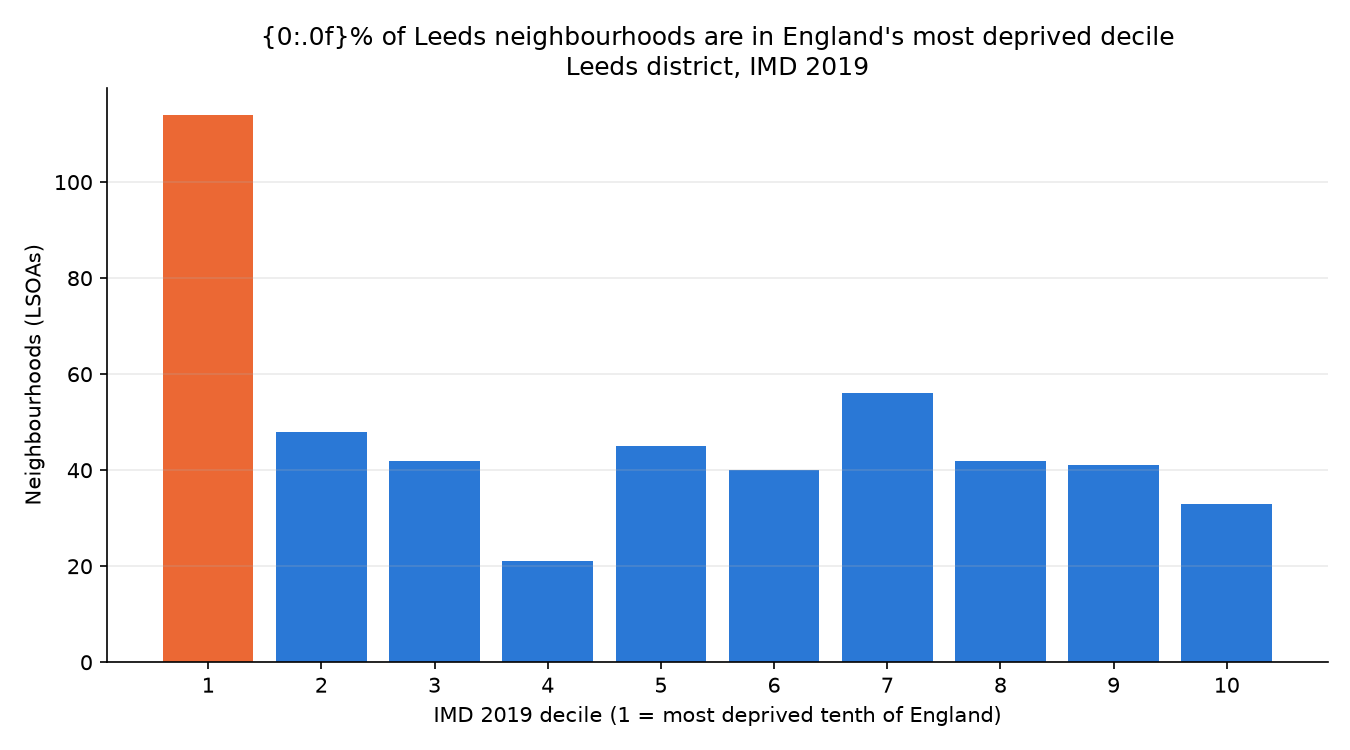
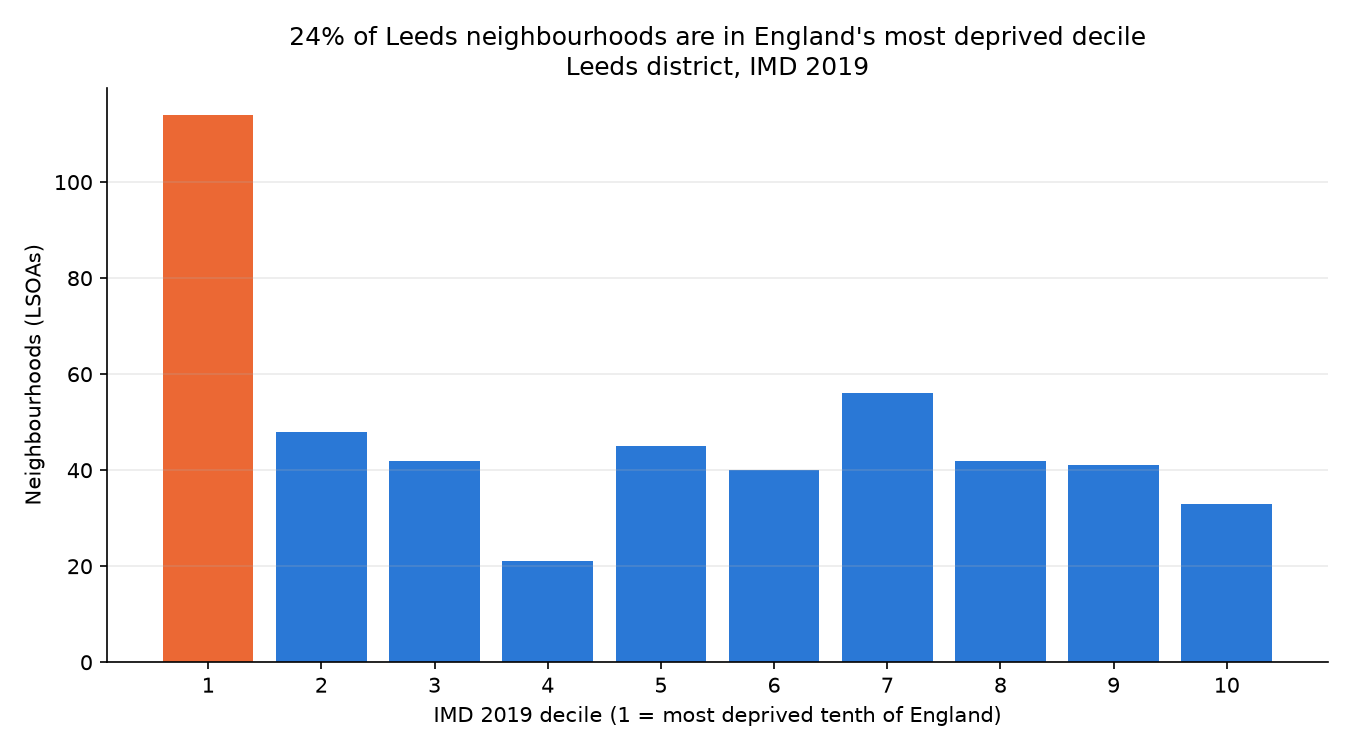
Fix three figure titles broken by the f-string conversion
The automated conversion in PR #9 hit three multi-line set_title calls of
the shape

    axes.set_title("{0} people ... \n"
                   "{1}, STATS19 2022-23".format(total, PLACE_NAME))

and converted only the second literal - the one the .format( was attached
to - leaving the first with an orphaned {0}. The Leeds demonstrator's
chapters 2, 3 and 4 therefore rendered titles reading "{0} people walking
or cycling were hurt in two years" instead of "729 people ...".

My verification missed this because I diffed stdout, and figure titles are
not in stdout - they are inside the PNG. The committed figures carried the
fault, so the demonstrator shown in the week 4 session would have displayed
it on screen.

Fixed all three, rebuilt the demonstrator, and confirmed by viewing the
regenerated images: 729 casualties, 24% of neighbourhoods, 29% of
households. A repository-wide search confirms no orphaned placeholders
remain anywhere outside check_setup.py, which deliberately still uses
.format().

Changed region(s): [[0.1867, 0.0307, 0.8711, 0.0613]]

diff --git a/instructor/demonstrator/leeds_atlas.py b/instructor/demonstrator/leeds_atlas.py
@@ -101,7 +101,7 @@ def chapter_2_safety():
     axes.set_ylabel("Casualties (people, 2022-23)")
     total = len(casualties)
     fatal = int((casualties["severity"] == "fatal").sum())
-    axes.set_title("{0} people walking or cycling were hurt in two years\n"
+    axes.set_title(f"{total} people walking or cycling were hurt in two years\n"
                    f"{PLACE_NAME}, STATS19 2022-23")
     axes.legend(frameon=False)
     name = save(figure, "chapter2_safety.png")
@@ -132,7 +132,7 @@ def chapter_3_deprivation():
     axes.set_ylabel("Neighbourhoods (LSOAs)")
     most = int(deciles.loc[1])
     share = 100.0 * most / len(imd)
-    axes.set_title("{0:.0f}% of Leeds neighbourhoods are in England's most "
+    axes.set_title(f"{share:.0f}% of Leeds neighbourhoods are in England's most "
                    f"deprived decile\nLeeds district, IMD 2019")
     name = save(figure, "chapter3_deprivation.png")
 
@@ -167,7 +167,7 @@ def chapter_4_car_free():
                       ha="center", va="bottom", fontsize=10)
     axes.set_xlabel("Cars or vans available to the household")
     axes.set_ylabel("Share of households (%)")
-    axes.set_title("{0:.0f}% of Leeds households have no car\n"
+    axes.set_title(f"{shares.iloc[0]:.0f}% of Leeds households have no car\n"
                    f"Leeds district, Census 2021 (TS045)")
     name = save(figure, "chapter4_car_free.png")
 
